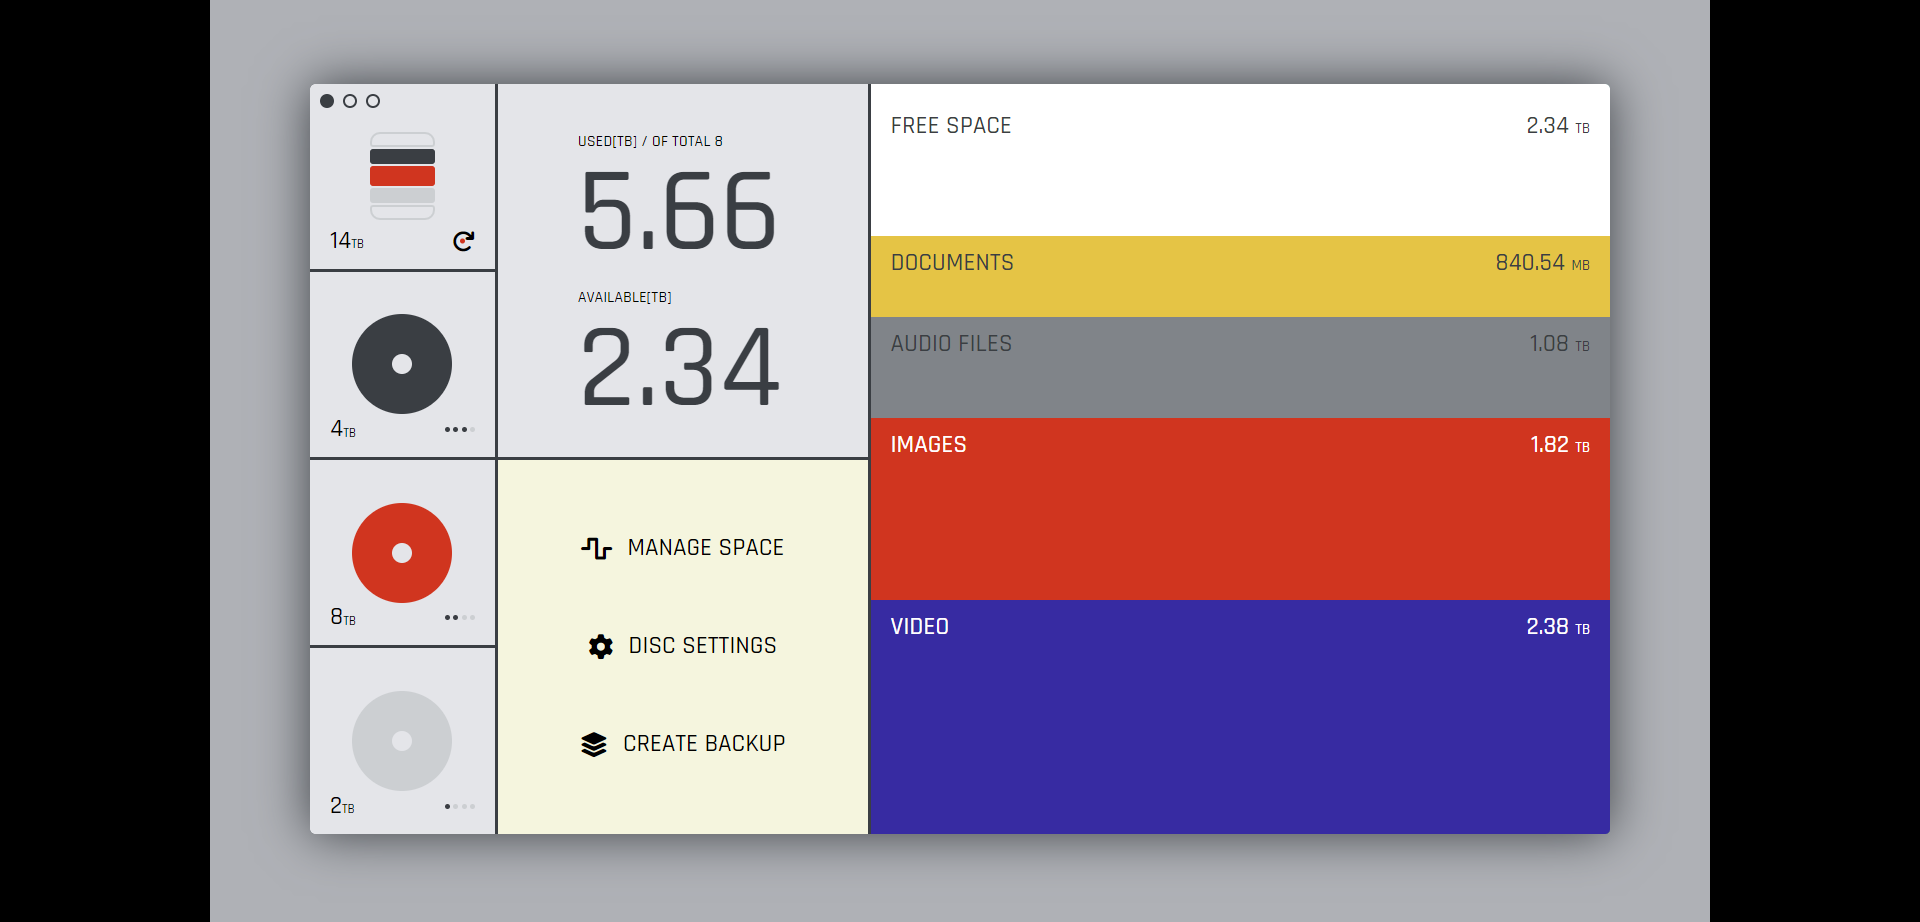
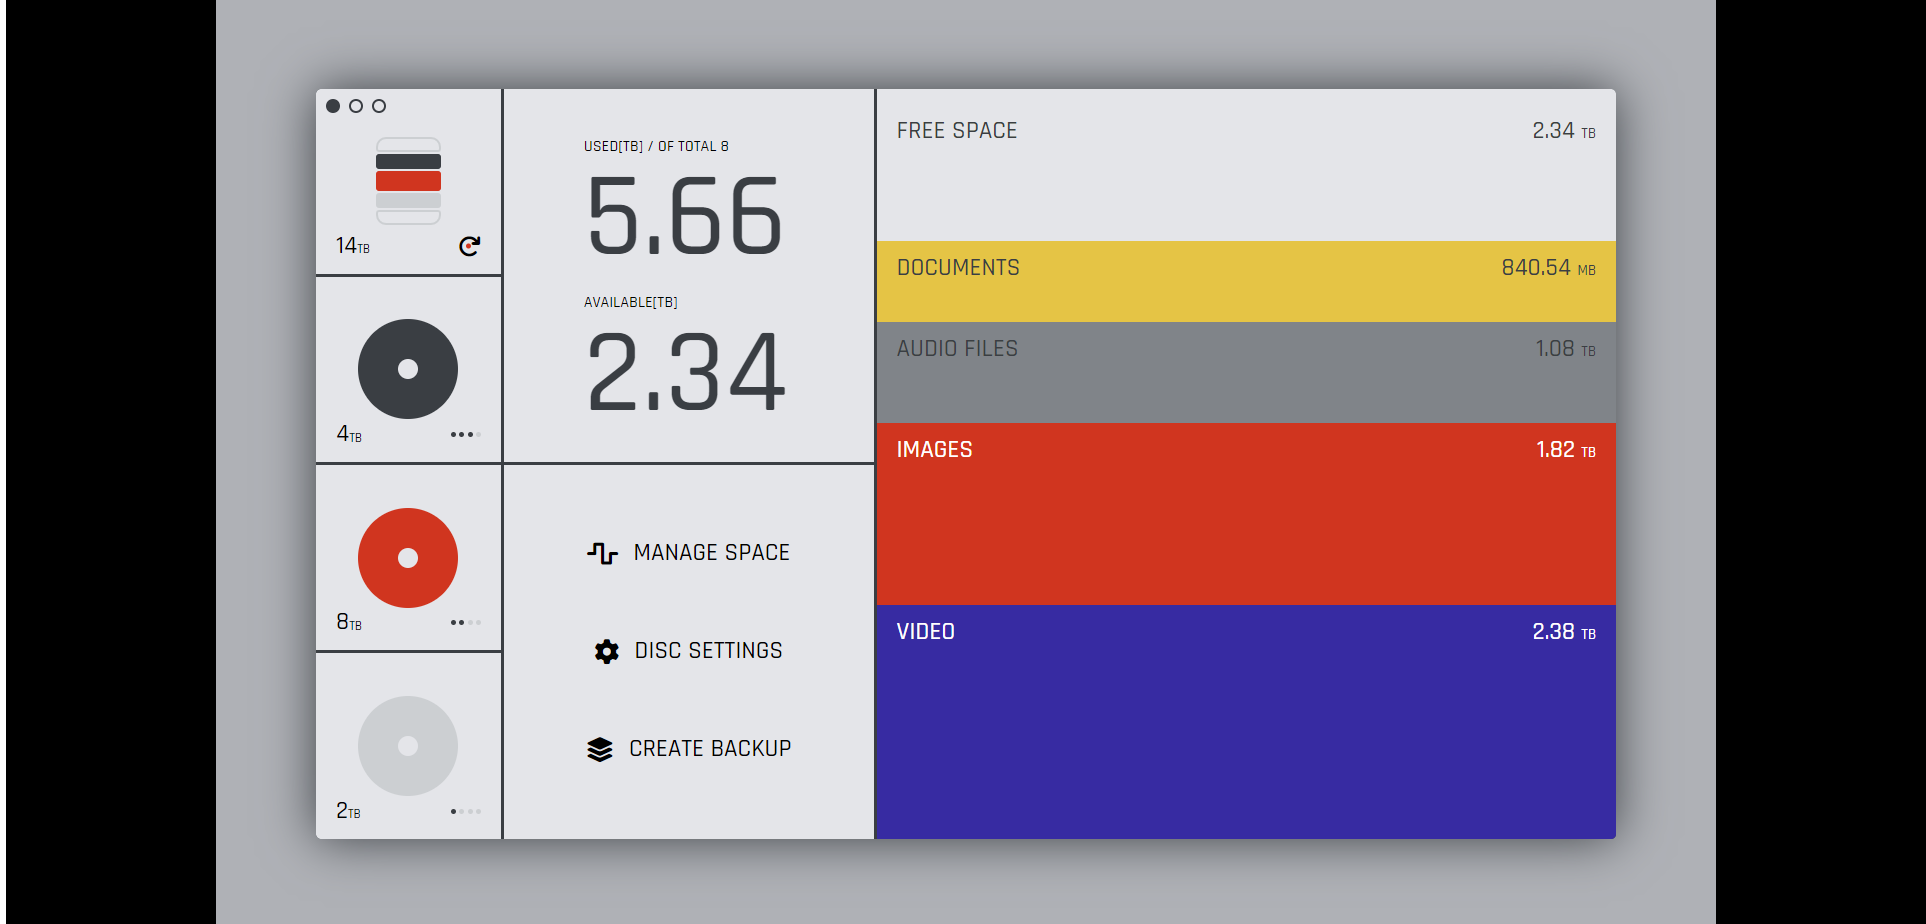
update exercise6 changes

Changed region(s): [[0.1562, 0.0911, 0.8438, 0.9111], [0.3125, 0.6681, 0.4062, 0.7289], [0.7812, 0.4555, 0.8438, 0.4859]]

diff --git a/exercise6/public/style.scss b/exercise6/public/style.scss
@@ -224,7 +224,6 @@ body {
 }
 
 .occupancy {
-  background-color: cadetblue;
   grid-row: 1 / span 4;
   display: grid;
   grid-template-rows: 1.5fr 0.8fr 1fr 1.8fr 2.3fr;
@@ -240,7 +239,7 @@ body {
       }
     }
     &:first-child {
-      background-color: white;
+      background-color: $main_gray;
       color: $gray_dark;
       padding: 30px 20px;
       box-sizing: border-box;
@@ -268,7 +267,7 @@ body {
   }
 }
 .config {
-  background-color: beige;
+  background-color: $main_gray;
   grid-row: 3 / span 2;
   padding: 40px 80px;
   & > div {
